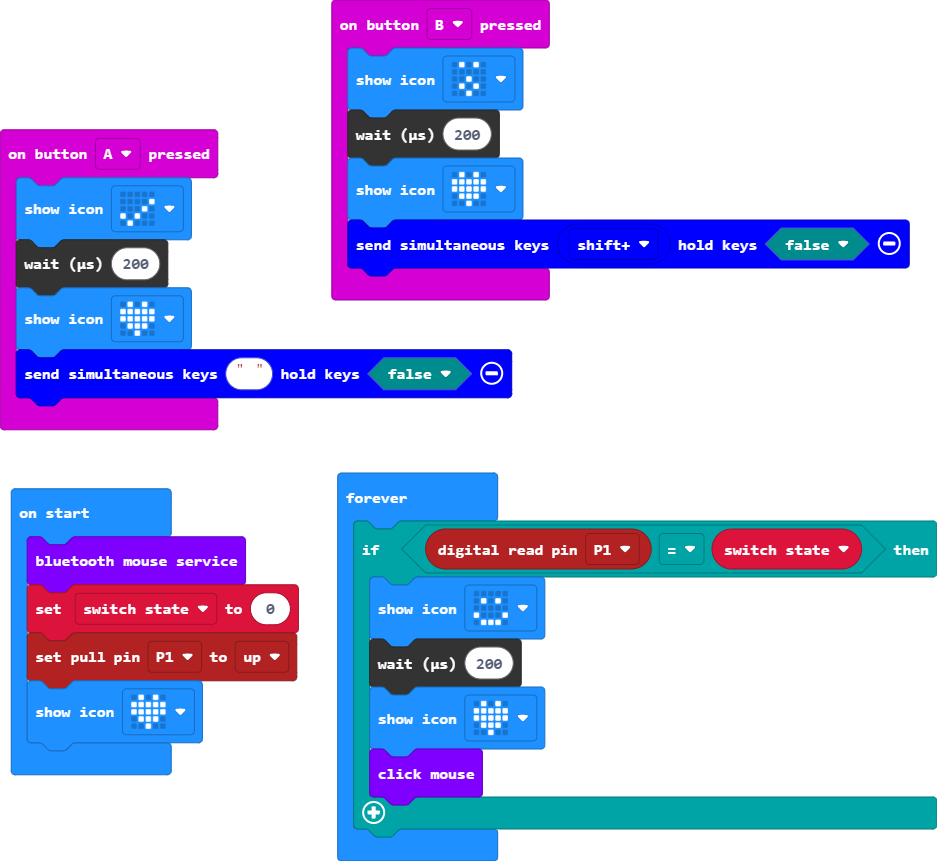
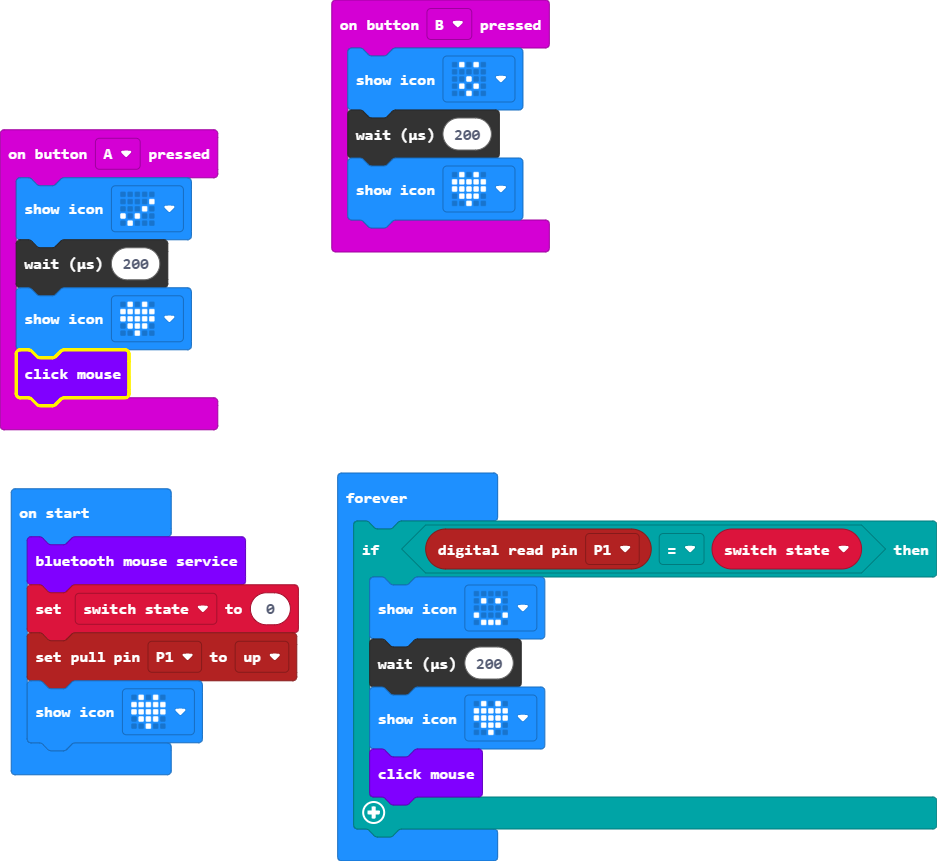
remove keyboard links

Changed region(s): [[0.3404, 0.2416, 0.9904, 0.3624], [0.0, 0.3926, 0.5571, 0.4832]]

diff --git a/main.ts b/main.ts
@@ -2,13 +2,12 @@ input.onButtonPressed(Button.A, function () {
     basic.showIcon(IconNames.Yes)
     control.waitMicros(200)
     basic.showIcon(IconNames.Heart)
-    keyboard.sendSimultaneousKeys(" ", false)
+    mouse.click()
 })
 input.onButtonPressed(Button.B, function () {
     basic.showIcon(IconNames.Surprised)
     control.waitMicros(200)
     basic.showIcon(IconNames.Heart)
-    keyboard.sendSimultaneousKeys(keyboard.modifiers(keyboard._Modifier.shift), false)
 })
 mouse.startMouseService()
 let switch_state = 0
